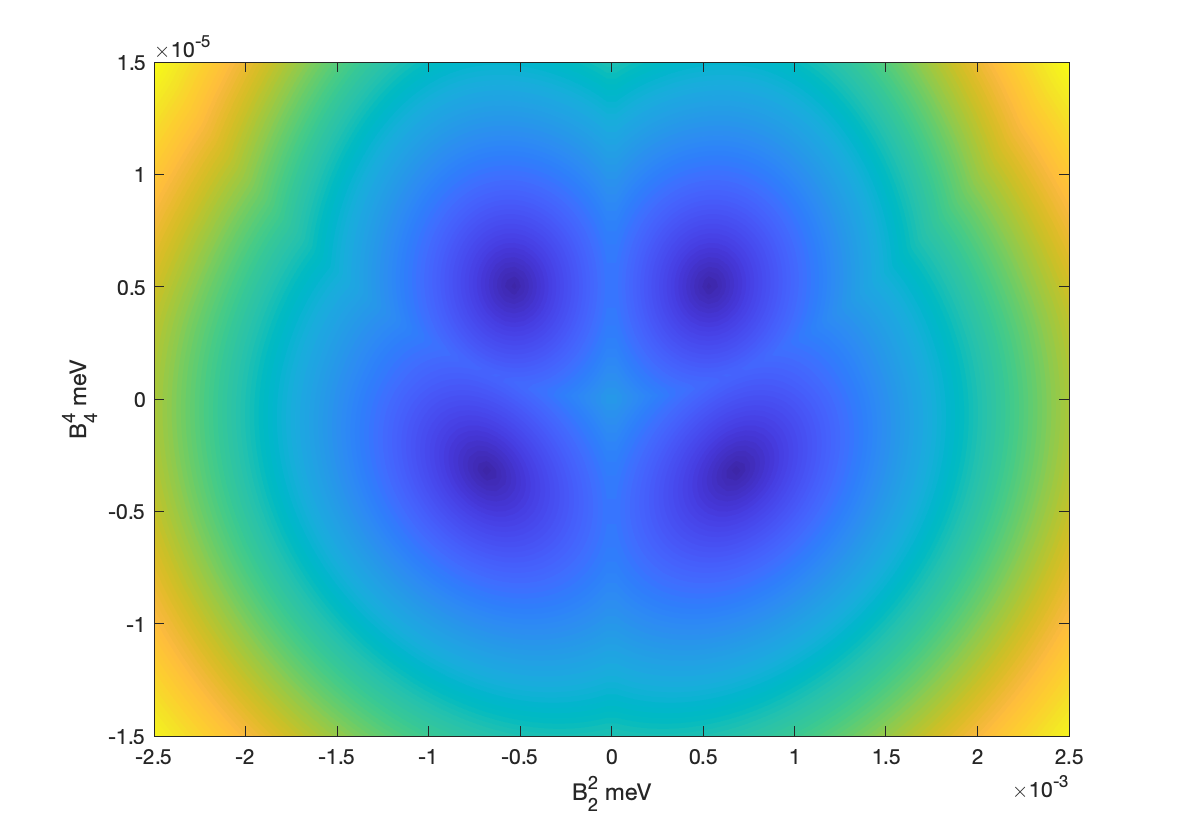
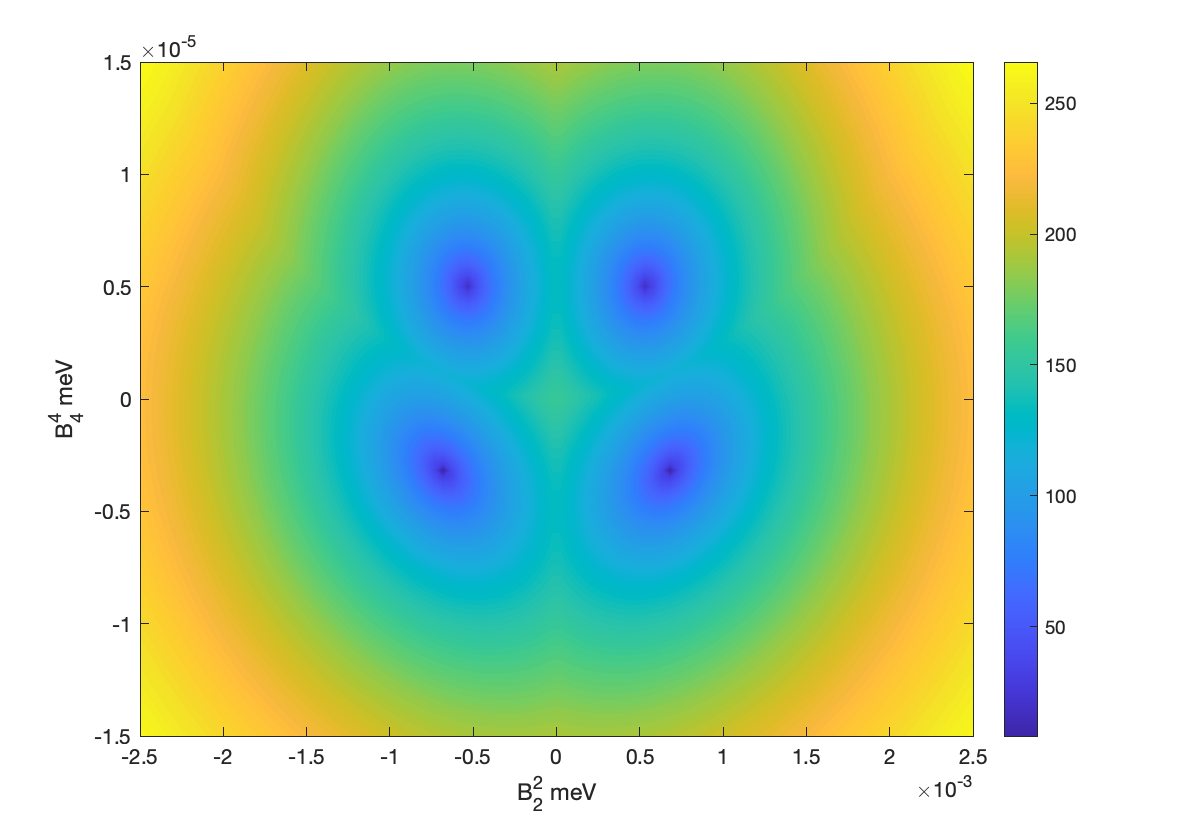
updated figure

diff --git a/Paper/Figure.m b/Paper/Figure.m
@@ -21,13 +21,16 @@ y = linspace(-1.5e-5,1.5e-5,N);
 Z=zeros(length(x),length(y));   
 for i=1:length(x)
     for j=1:length(y)
-        Z(i,j) = IEP_Evaluate_diff([x(j);y(i)].*meV,constants);
+        [F,R,J] = IEP_Evaluate_diff([x(j);y(i)].*meV,constants);
+        Z(i,j) = sqrt(F);
+        % Z(i,j) = norm(J'*R);
     end
 end
-%
+%%
 f = figure(1);
 % subplot(1,2,1)
 contourf(X,Y,Z,100,'edgecolor','none');
+colorbar
 %
 ylabel("B^4_4 meV")
 xlabel("B^2_2 meV")
@@ -43,6 +46,7 @@ Opt.NDeflations = 4;
 Sys0 = ExpSys;
 Sys0.B2 = [-100,0,-1000,0,0];   
 Sys0.B4 = [-1,0,0,0,-1,0,0,0,0];
+% Opt.Verbose = true;
 SysOut = INS_IEP(Sys0, Sys0,Exp,Opt)
 
 %%
